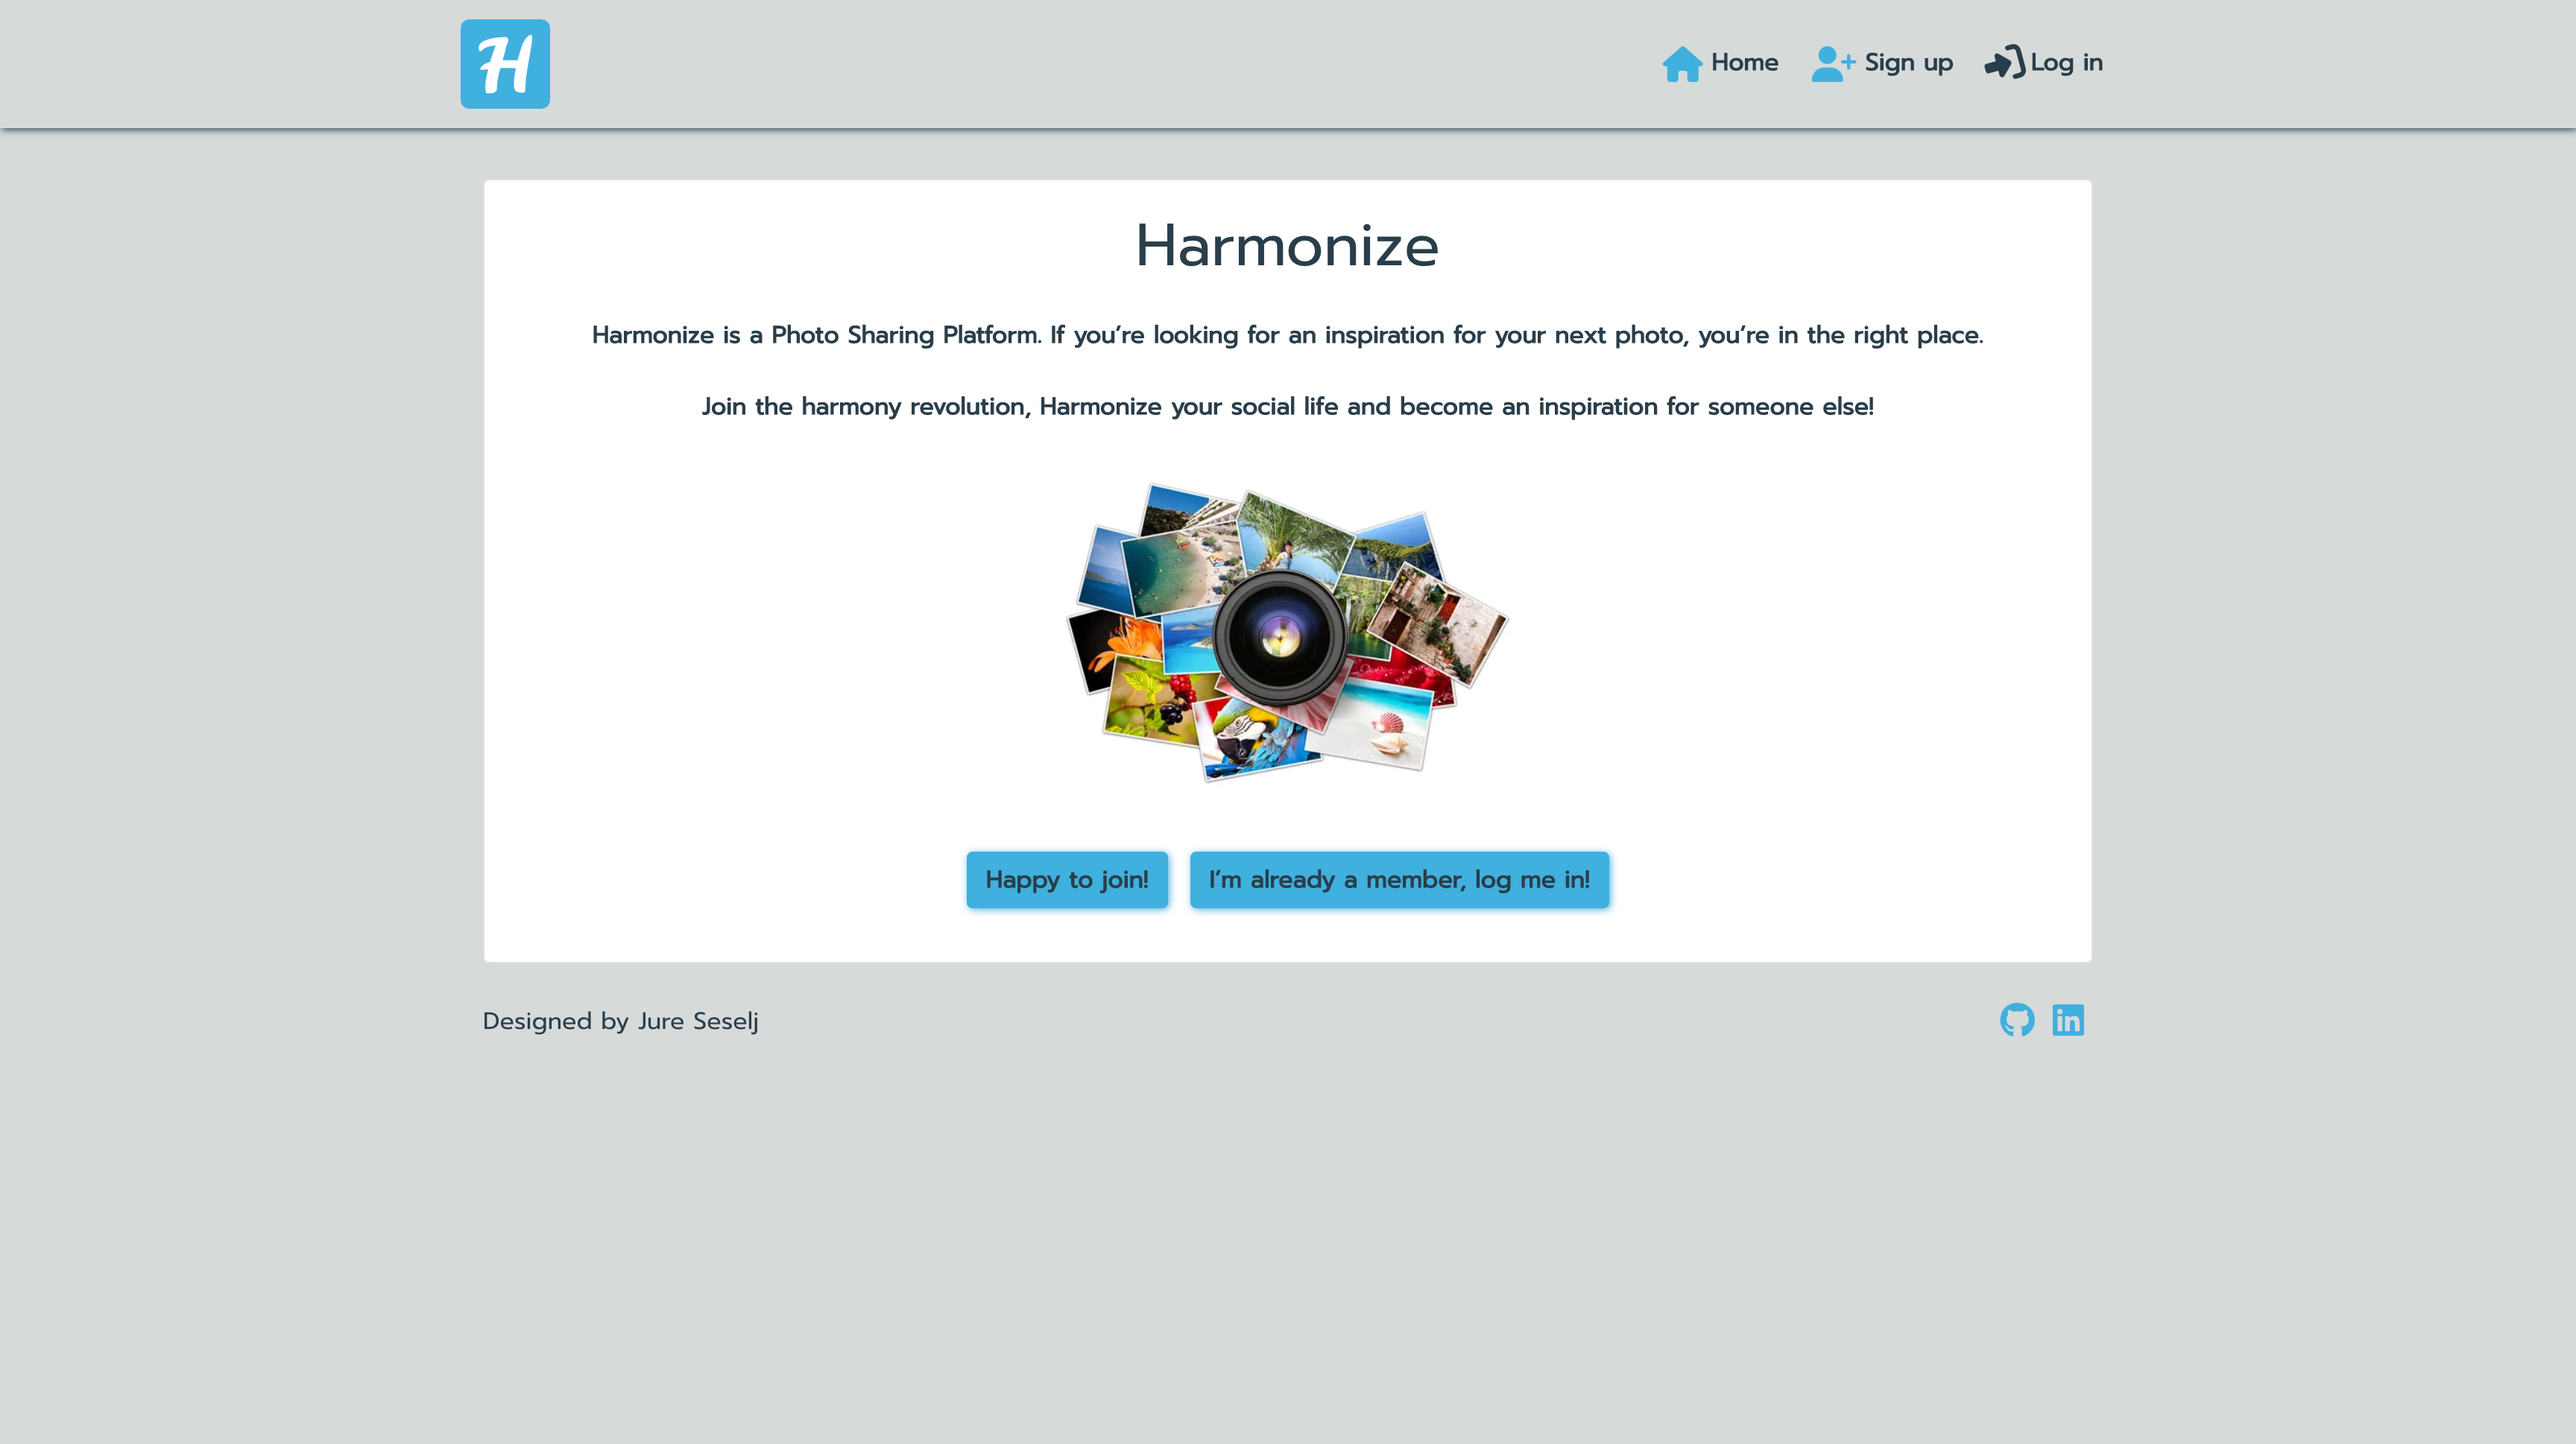
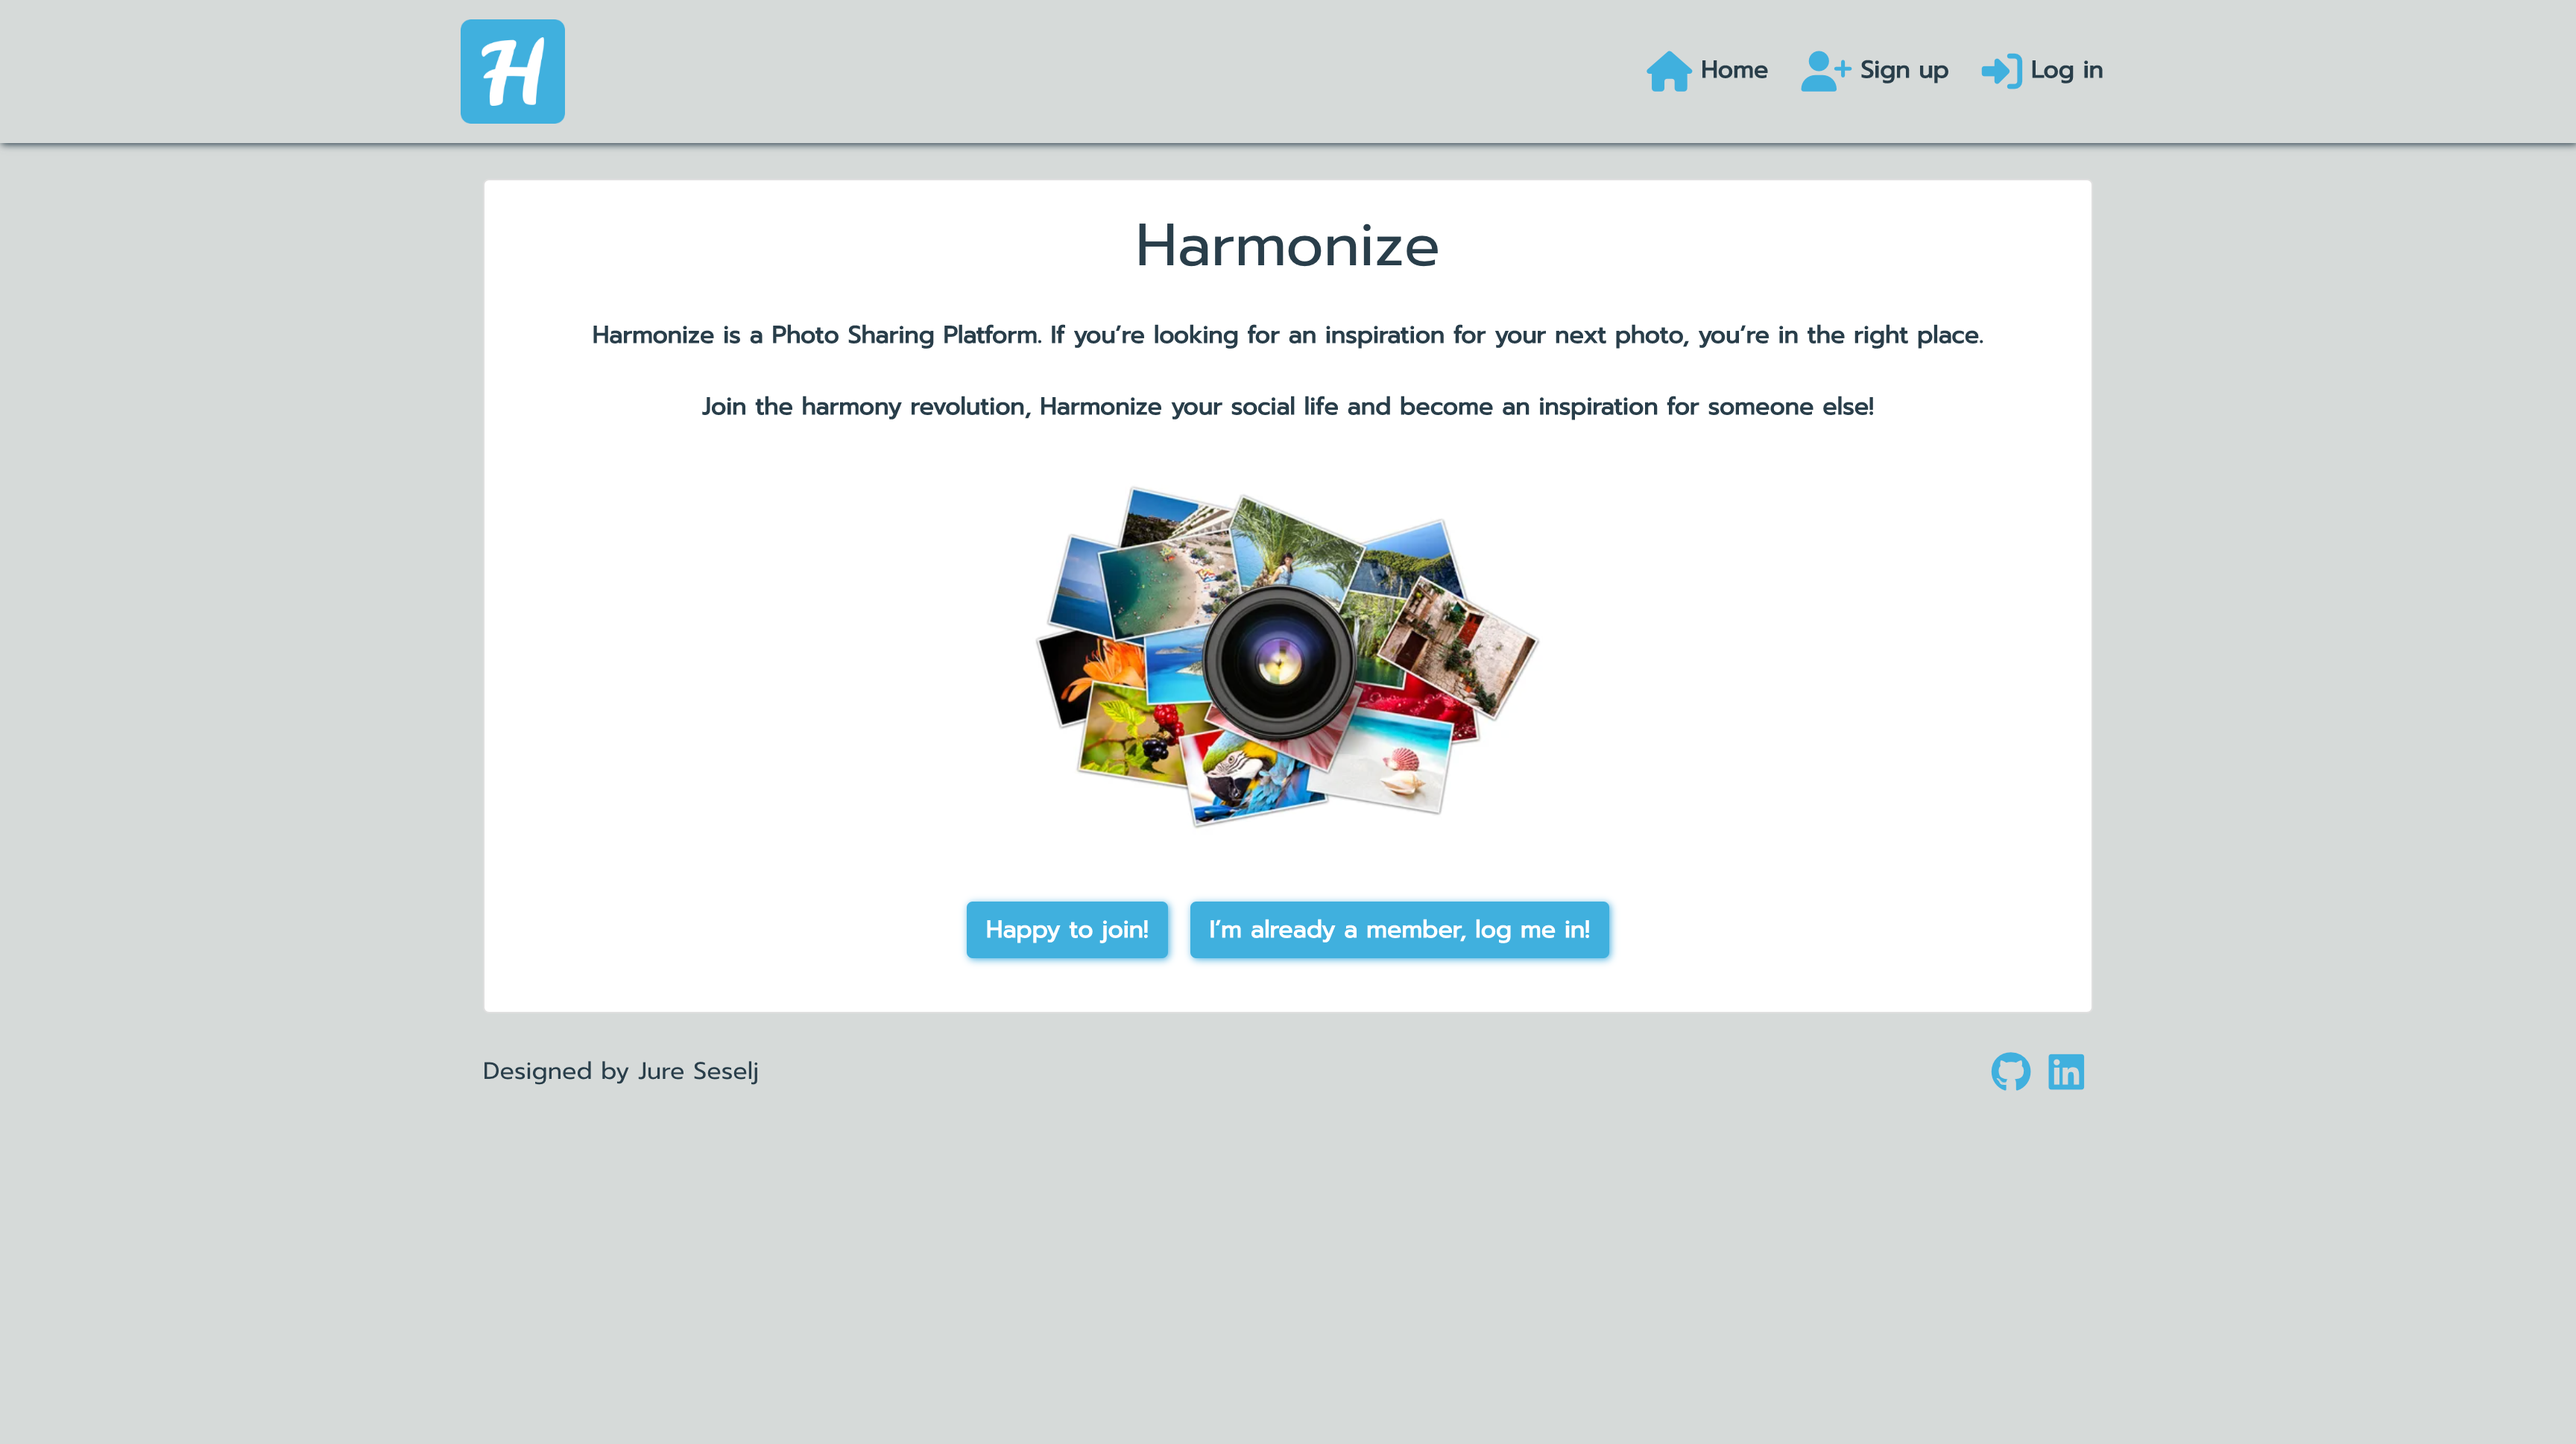
Change feature screenshot images in README file

Changed region(s): [[0.1875, 0.3406, 0.8125, 0.774], [0.0, 0.0, 1.0, 0.1238]]

diff --git a/src/components/NavBar.js b/src/components/NavBar.js
@@ -95,7 +95,7 @@ const NavBar = () => {
             <Container>
                 <NavLink to="/">
                     <Navbar.Brand>
-                      <img src={logo} alt='Harmonize logo' height="60" width="60" />
+                      <img src={logo} alt='Harmonize logo' height="70" width="70" />
                     </Navbar.Brand>
                 </NavLink>
                 <Navbar.Toggle
